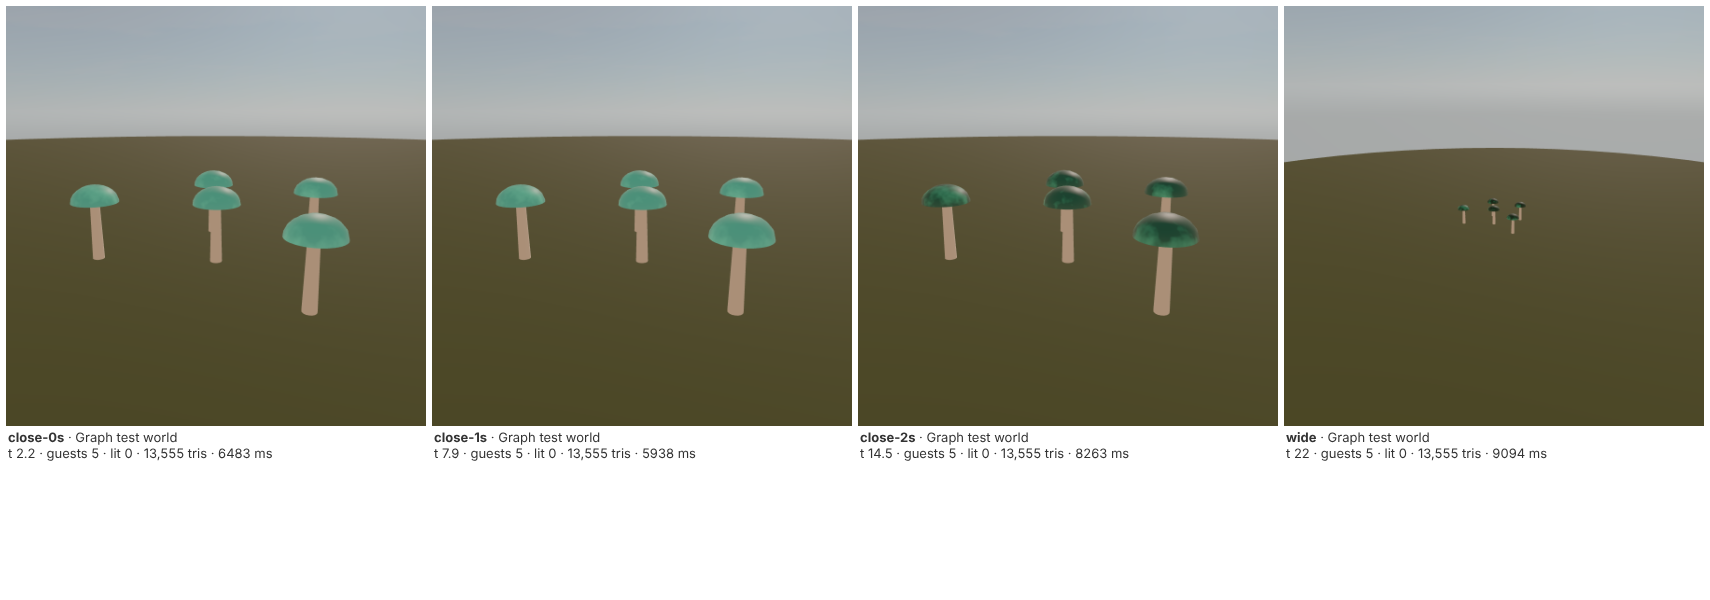
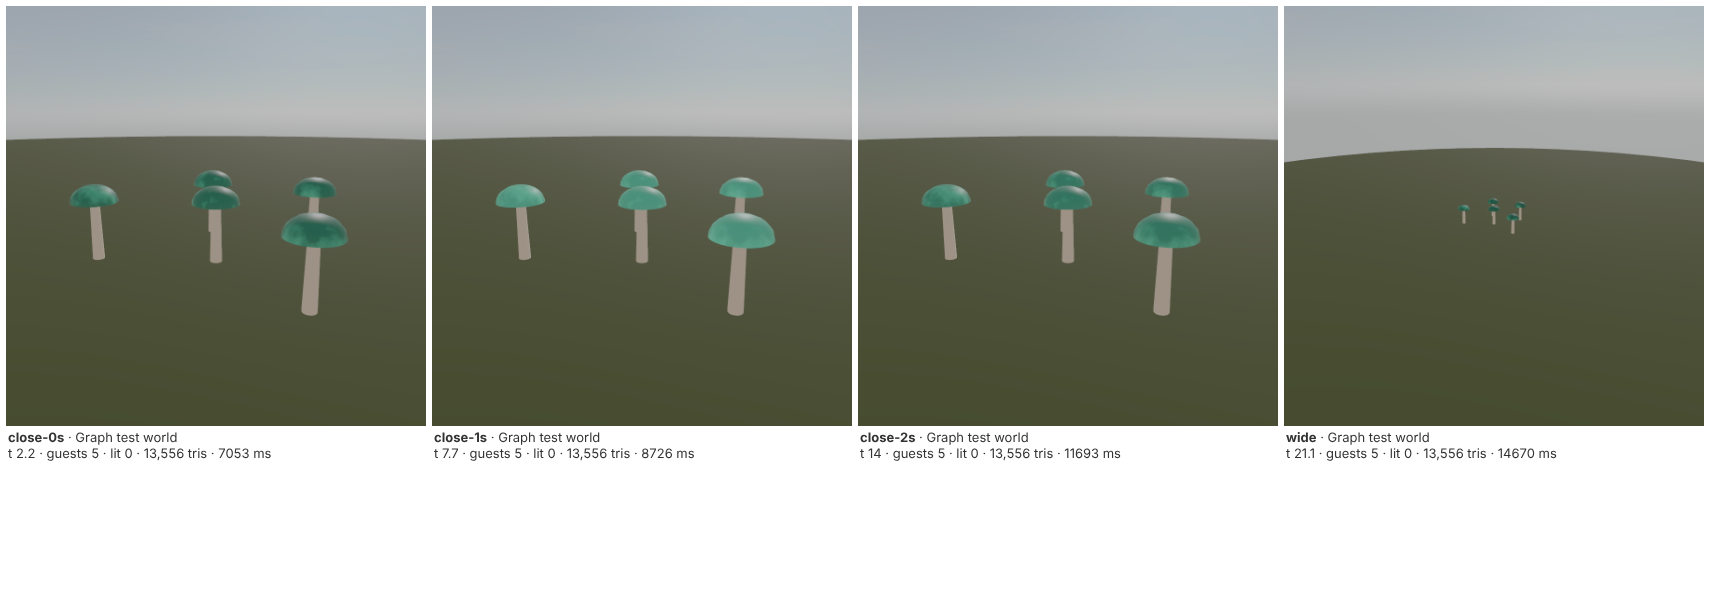
a5faafad c5: head's screenshots again, on GPU 9's switch (WebGPURenderer, WebGL 2 backend)
Intent: a5faafad-bcda-4a7a-9b62-ec2637e32ae9

Claude-Session: https://claude.ai/code/session_01E9zxn4othdq7vGAZqBLPVw

diff --git a/intent-work/a5faafad-render/README.md b/intent-work/a5faafad-render/README.md
@@ -2,7 +2,7 @@
 
 The test asset `play/site/src/lib/content/assets/box/fixtures/glow-mushroom.js` (a cap whose look is its own node graph:
 teal, mottled by `fbm`, its glow pulsing, its top swaying with the wind), main against head
-(`intent/a5faafad-recipe-shaders` @ 8796d65db, engine 7; main @ 12837b65e), by `play/site/scripts/render.mjs` in avenBOX's Chromium (SwiftShader):
+(`intent/a5faafad-recipe-shaders` @ 1e67ab55c, engine 7, on GPU 9's switch: WebGPURenderer, its WebGL 2 backend in avenBOX; main @ 12837b65e), by `play/site/scripts/render.mjs` in avenBOX's Chromium (SwiftShader):
 
 - `*-viewer.png` — the render bench (`/render`: the asset box, the viewer's studio), front, side, close.
 - `*-world.png` — five of it standing in `world.js` on the world bench (`/worlds/bench/`, the renderer every world
